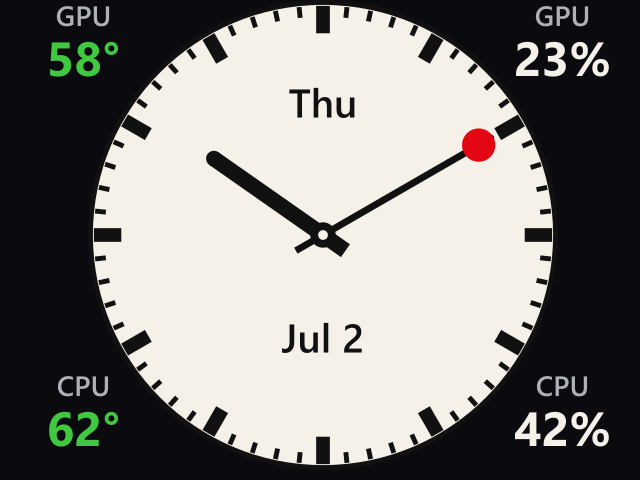
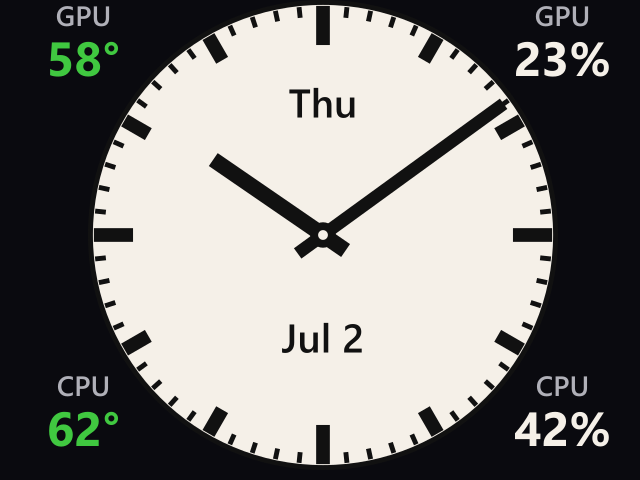
Refine watchface hands and ticks to match the DB design.
Remove the unused second-hand disc and rounded tips, tune minute-hand proportions with configurable HAND_REF, add longer cardinal ticks, and default clock previews to 10:09.

diff --git a/generate_clock.js b/generate_clock.js
@@ -9,27 +9,25 @@ const { loadConfig } = require('./lib/config');
 const {
   W, H,
   resolveLayout,
-  C_CANVAS, C_RIM, C_FACE, C_TICK, C_HAND, C_DISC,
+  HAND_REF,
+  minuteHandTip,
+  C_CANVAS, C_RIM, C_FACE, C_TICK, C_HAND,
 } = require('./lib/layout');
 const { writeClockPng } = require('./lib/clockOutput');
-const { rotatedRect, radialPoint } = require('./lib/geometry');
+const { rotatedRect } = require('./lib/geometry');
 const { buildComplicationsSvg } = require('./lib/complications');
 const { getStats, needsStats } = require('./lib/stats');
 
 // ── Config ────────────────────────────────────────────────────────────────────
 
-// PNG written here; IO Center reads it, creates its own UUID copy, pushes to keyboard
 const CURRENT_IMAGE = path.join(__dirname, 'current.png');
 
-// ── SVG builder ───────────────────────────────────────────────────────────────
+function scaledTick(ref, scale) {
+  return { len: ref.len * scale, w: ref.w * scale };
+}
 
 /**
  * Returns SVG markup for the clock at the given Date.
- * Exported so test scripts can call it without sharp being installed.
- *
- * @param {Date} now
- * @param {object} [config] — optional; `config.complications` toggles overlay slots
- * @param {object} [stats] — system stats for corner slot values
  */
 function buildClockSvg(now, config = {}, stats = null) {
   const layout = resolveLayout(config.padding);
@@ -41,38 +39,29 @@ function buildClockSvg(now, config = {}, stats = null) {
   const hourAngle   = (h12 + min / 60) * 30;
   const minuteAngle = min * 6;
 
-  const TICK_OUTER = R - 6 * scale;
-
-  const HOUR_TICK = { len: 28 * scale, w: 14 * scale };
-  const MIN_TICK  = { len: 11 * scale, w:  5 * scale };
+  const tickOuter = R - HAND_REF.tickInset * scale;
+  const hourTick = scaledTick(HAND_REF.hourTick, scale);
+  const cardinalTick = scaledTick(HAND_REF.cardinalTick, scale);
+  const minTick = scaledTick(HAND_REF.minTick, scale);
 
   const ticks = [];
   for (let i = 0; i < 60; i++) {
-    const t = i % 5 === 0 ? HOUR_TICK : MIN_TICK;
+    const t = i % 15 === 0 ? cardinalTick : i % 5 === 0 ? hourTick : minTick;
     ticks.push(
-      rotatedRect(CX, CY, i * 6, t.w, -TICK_OUTER, -(TICK_OUTER - t.len), C_TICK)
+      rotatedRect(CX, CY, i * 6, t.w, -tickOuter, -(tickOuter - t.len), C_TICK)
     );
   }
 
-  const HOUR_TIP  = 136 * scale;
-  const HOUR_TAIL = 28 * scale;
-  const HOUR_W    = 16 * scale;
+  const HOUR_TIP  = HAND_REF.hourTip * scale;
+  const HOUR_TAIL = HAND_REF.hourTail * scale;
+  const HOUR_W    = HAND_REF.hourWidth * scale;
 
-  const hourHand  = rotatedRect(CX, CY, hourAngle, HOUR_W, -HOUR_TIP, HOUR_TAIL, C_HAND);
-  const hourTipPt = radialPoint(CX, CY, hourAngle, HOUR_TIP);
-  const hourCap   = `<circle cx="${hourTipPt.x}" cy="${hourTipPt.y}" r="${HOUR_W / 2}" fill="${C_HAND}"/>`;
+  const MIN_TIP   = minuteHandTip(R, scale);
+  const MIN_TAIL  = HAND_REF.minuteTail * scale;
+  const MIN_W     = HAND_REF.minuteWidth * scale;
 
-  const MIN_TIP   = 198 * scale;
-  const MIN_TAIL  = 32 * scale;
-  const MIN_W     = 7 * scale;
-  const DISC_R    = 17 * scale;
-  const DISC_DIST = R * 0.765;
-
-  const minStem   = rotatedRect(CX, CY, minuteAngle, MIN_W, -MIN_TIP, MIN_TAIL, C_HAND);
-  const minTipPt  = radialPoint(CX, CY, minuteAngle, MIN_TIP);
-  const minCap    = `<circle cx="${minTipPt.x}" cy="${minTipPt.y}" r="${MIN_W / 2}" fill="${C_HAND}"/>`;
-  const discPt    = radialPoint(CX, CY, minuteAngle, DISC_DIST);
-  const disc      = `<circle cx="${discPt.x}" cy="${discPt.y}" r="${DISC_R}" fill="${C_DISC}"/>`;
+  const hourHand = rotatedRect(CX, CY, hourAngle, HOUR_W, -HOUR_TIP, HOUR_TAIL, C_HAND);
+  const minHand  = rotatedRect(CX, CY, minuteAngle, MIN_W, -MIN_TIP, MIN_TAIL, C_HAND);
 
   const complicationsSvg = buildComplicationsSvg(now, config, stats, layout);
 
@@ -83,7 +72,7 @@ function buildClockSvg(now, config = {}, stats = null) {
 
   <!-- Clock face: rim + off-white inner -->
   <circle cx="${CX}" cy="${CY}" r="${R}"     fill="${C_RIM}"/>
-  <circle cx="${CX}" cy="${CY}" r="${R - 5 * scale}" fill="${C_FACE}"/>
+  <circle cx="${CX}" cy="${CY}" r="${R - HAND_REF.faceRimInset * scale}" fill="${C_FACE}"/>
 
   <!-- Complications (corners + date) -->
   ${complicationsSvg}
@@ -93,21 +82,16 @@ function buildClockSvg(now, config = {}, stats = null) {
 
   <!-- Hour hand (below minute hand) -->
   ${hourHand}
-  ${hourCap}
 
-  <!-- Minute hand + red disc -->
-  ${minStem}
-  ${minCap}
-  ${disc}
+  <!-- Minute hand -->
+  ${minHand}
 
   <!-- Centre hub -->
-  <circle cx="${CX}" cy="${CY}" r="${13 * scale}" fill="${C_HAND}"/>
-  <circle cx="${CX}" cy="${CY}" r="${5 * scale}"  fill="${C_FACE}"/>
+  <circle cx="${CX}" cy="${CY}" r="${HAND_REF.hubOuter * scale}" fill="${C_HAND}"/>
+  <circle cx="${CX}" cy="${CY}" r="${HAND_REF.hubInner * scale}"  fill="${C_FACE}"/>
 
 </svg>`;
 }
-
-// ── Image generation (used by automate.js via generate.js) ───────────────────
 
 async function generateImage(config) {
   const resolved = config ?? loadConfig();
@@ -129,8 +113,6 @@ async function generateImage(config) {
 }
 
 module.exports = { generateImage, buildClockSvg };
-
-// ── Standalone: node generate_clock.js → writes current.png ─────────────────
 
 if (require.main === module) {
   generateImage().catch(err => {

diff --git a/lib/layout.js b/lib/layout.js
@@ -10,6 +10,30 @@ const W  = 640;
 const H  = 480;
 const REF_R = H / 2;  // 240 — reference face radius with zero padding (hand scaling)
 
+// ── Hand geometry (reference design at scale = 1) ─────────────────────────────
+// Lengths in px; multiplied by layout.scale when padding shrinks the face.
+
+const HAND_REF = {
+  hourTip:    136,
+  hourTail:    28,
+  hourWidth:   16,
+  minuteTail:  32,
+  minuteWidth: 13,   // slightly narrower than hourWidth
+  minuteTipGap: 6,  // minute tip sits this far inside the outer minute ticks
+  hubOuter:    13,
+  hubInner:     5,
+  faceRimInset: 5,
+  tickInset:    6,
+  hourTick:     { len: 28, w: 14 },
+  cardinalTick: { len: 40, w: 14 },  // 12 / 3 / 6 / 9 — longer than other hour ticks
+  minTick:      { len: 11, w:  5 },
+};
+
+/** Minute-hand tip distance from centre (overlaps hour ticks, near minute ticks). */
+function minuteHandTip(R, scale) {
+  return R - (HAND_REF.tickInset + HAND_REF.minuteTipGap) * scale;
+}
+
 // ── Complication layout constants ─────────────────────────────────────────────
 
 const CORNER_W = 155;
@@ -85,11 +109,11 @@ const C_RIM    = '#111111';
 const C_FACE   = '#f5f0e8';
 const C_TICK   = '#111111';
 const C_HAND   = '#111111';
-const C_DISC   = '#e30613';
 const C_COMPLICATION_LABEL = '#b0b0b8';
 
 module.exports = {
   W, H, REF_R,
+  HAND_REF, minuteHandTip,
   CORNER_W, CORNER_H, CORNER_TEXT_TOP_INSET, CORNER_TEXT_GAP,
   computeCornerTextYs,
   normalizePadding,
@@ -103,5 +127,5 @@ module.exports = {
   DATE_SLOTS: DEFAULT_LAYOUT.DATE_SLOTS,
   SLOT_NUMBERS,
   SLOT_TO_CORNER,
-  C_CANVAS, C_RIM, C_FACE, C_TICK, C_HAND, C_DISC, C_COMPLICATION_LABEL,
+  C_CANVAS, C_RIM, C_FACE, C_TICK, C_HAND, C_COMPLICATION_LABEL,
 };

diff --git a/preview.js b/preview.js
@@ -7,7 +7,7 @@
 //   node preview.js [clock|stats] [--time HH:MM] [--out <path>] [--config <path>]
 //
 // Examples:
-//   node preview.js clock --time 10:10 --out preview_clock.png
+//   node preview.js clock --time 10:09 --out preview_clock.png
 //   node preview.js stats --out preview_stats.png
 
 const { execSync } = require('child_process');
@@ -18,6 +18,9 @@ const { buildClockSvg } = require('./generate_clock');
 const { writeClockPng } = require('./lib/clockOutput');
 const { buildSvg } = require('./generate_stats');
 const { MOCK_STATS } = require('./lib/stats');
+
+/** Default time for clock previews when --time is omitted. */
+const DEFAULT_CLOCK_PREVIEW_TIME = '10:09';
 
 function parseArgs(argv) {
   const opts = {
@@ -95,7 +98,8 @@ async function main() {
   const outPath = path.resolve(
     opts.out ?? path.join(__dirname, `preview_${generator}.png`)
   );
-  const now = parseTime(opts.time);
+  const timeStr = opts.time ?? (generator === 'clock' ? DEFAULT_CLOCK_PREVIEW_TIME : null);
+  const now = parseTime(timeStr);
 
   console.log(`Rendering ${generator} (${now.toLocaleString()}) → ${outPath}`);
 
@@ -118,4 +122,4 @@ if (require.main === module) {
   });
 }
 
-module.exports = { parseArgs, parseTime, MOCK_STATS, previewClock, previewStats, main };
+module.exports = { parseArgs, parseTime, DEFAULT_CLOCK_PREVIEW_TIME, MOCK_STATS, previewClock, previewStats, main };

diff --git a/test/layout.test.js b/test/layout.test.js
@@ -2,7 +2,7 @@
 
 const { describe, it } = require('node:test');
 const assert = require('node:assert/strict');
-const { W, H, resolveLayout } = require('../lib/layout');
+const { W, H, resolveLayout, HAND_REF, minuteHandTip } = require('../lib/layout');
 
 describe('resolveLayout', () => {
   it('matches full-canvas layout with zero padding', () => {
@@ -26,5 +26,17 @@ describe('resolveLayout', () => {
     assert.equal(layout.CORNER_SLOTS.cornerTopLeft.y, 10);
     assert.equal(layout.CORNER_SLOTS.cornerTopRight.x, W - 15 - 155);
     assert.equal(layout.CORNER_SLOTS.cornerBottomRight.y, H - 20 - 100);
+  });
+
+  it('minute hand tip overlaps hour ticks and sits near minute ticks', () => {
+    const layout = resolveLayout();
+    const { R, scale } = layout;
+    const tip = minuteHandTip(R, scale);
+    const tickOuter = R - HAND_REF.tickInset * scale;
+    const hourTickInner = tickOuter - HAND_REF.hourTick.len * scale;
+
+    assert.ok(tip > hourTickInner, 'minute hand should overlap 5-minute ticks');
+    assert.ok(tip <= tickOuter, 'minute hand should not pass outer tick edge');
+    assert.equal(tip, tickOuter - HAND_REF.minuteTipGap * scale);
   });
 });

diff --git a/test/clock.test.js b/test/clock.test.js
@@ -19,7 +19,14 @@ describe('buildClockSvg', () => {
   it('includes tick marks and centre hub', () => {
     const svg = buildClockSvg(TIME_10_10, {});
     assert.match(svg, /<polygon/);
-    assert.match(svg, /Centre hub/);
+  });
+
+  it('has no second-hand disc or rounded hand tips', () => {
+    const svg = buildClockSvg(TIME_10_10, {});
+    assert.doesNotMatch(svg, /#e30613/);
+    // Face rim + inner + hub only (no tip cap circles on hands).
+    const circles = svg.match(/<circle/g) || [];
+    assert.equal(circles.length, 4);
   });
 
   it('includes stat complications when config and stats provided', () => {
@@ -45,6 +52,6 @@ describe('buildClockSvg', () => {
   it('renders symmetric hands at 10:10', () => {
     const svg = buildClockSvg(TIME_10_10, { complications: { slots: {} } });
     const polygonCount = (svg.match(/<polygon/g) || []).length;
-    assert.ok(polygonCount >= 62, `expected tick marks + hands, got ${polygonCount} polygons`);
+    assert.ok(polygonCount >= 62, `expected 60 ticks + 2 hands, got ${polygonCount} polygons`);
   });
 });

diff --git a/README.md b/README.md
@@ -126,14 +126,15 @@ Generate preview PNGs without sharp (requires ImageMagick `convert` on PATH):
 
 ```
 npm run preview              # uses generator from config.json
-npm run preview:clock        # clock at 10:10 → preview_clock.png
+npm run preview:clock        # clock at 10:09 → preview_clock.png
 npm run preview:stats        # stats with mock data → preview_stats.png
 ```
 
 Or directly:
 
 ```
-node preview.js clock --time 10:10 --out preview_clock.png
+node preview.js clock --out preview_clock.png
+node preview.js clock --time 10:09 --out preview_clock.png
 node preview.js stats --out preview_stats.png
 ```
 
